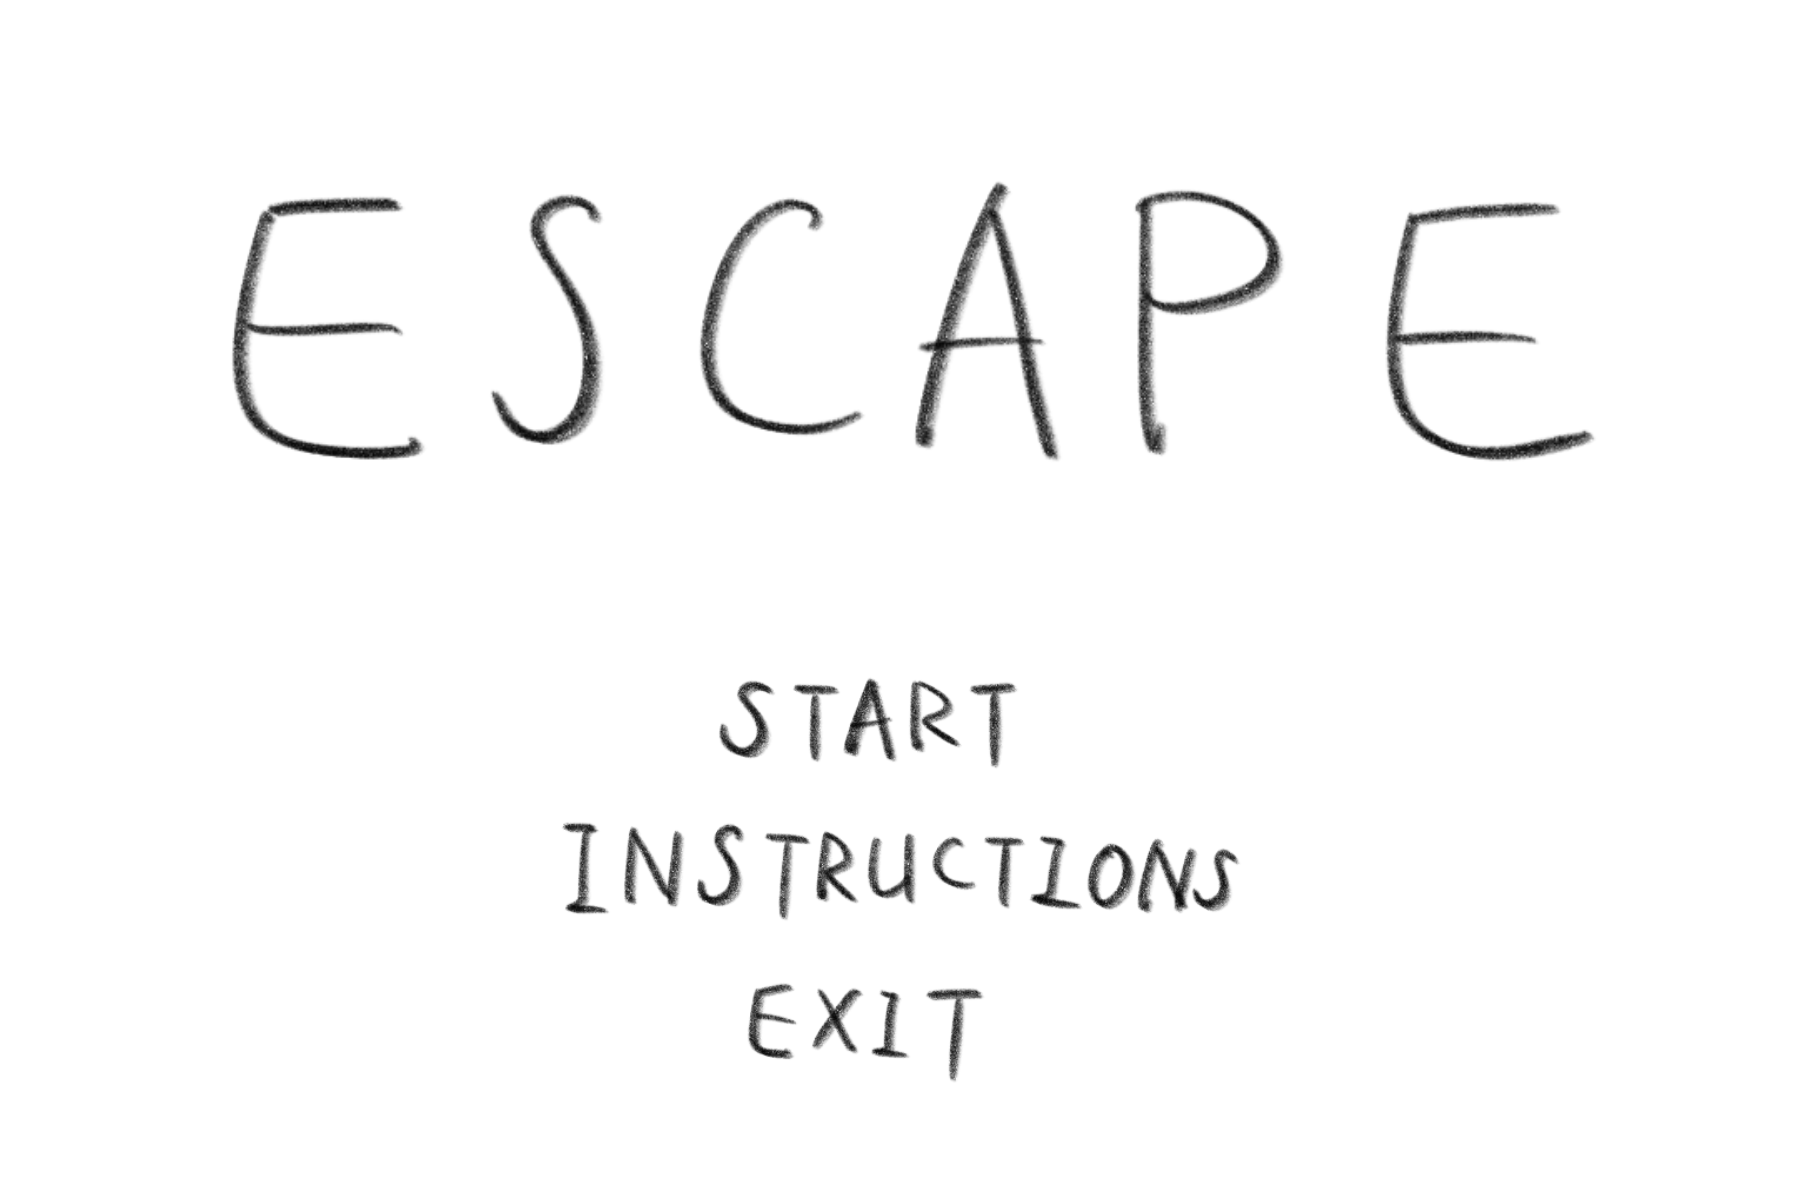
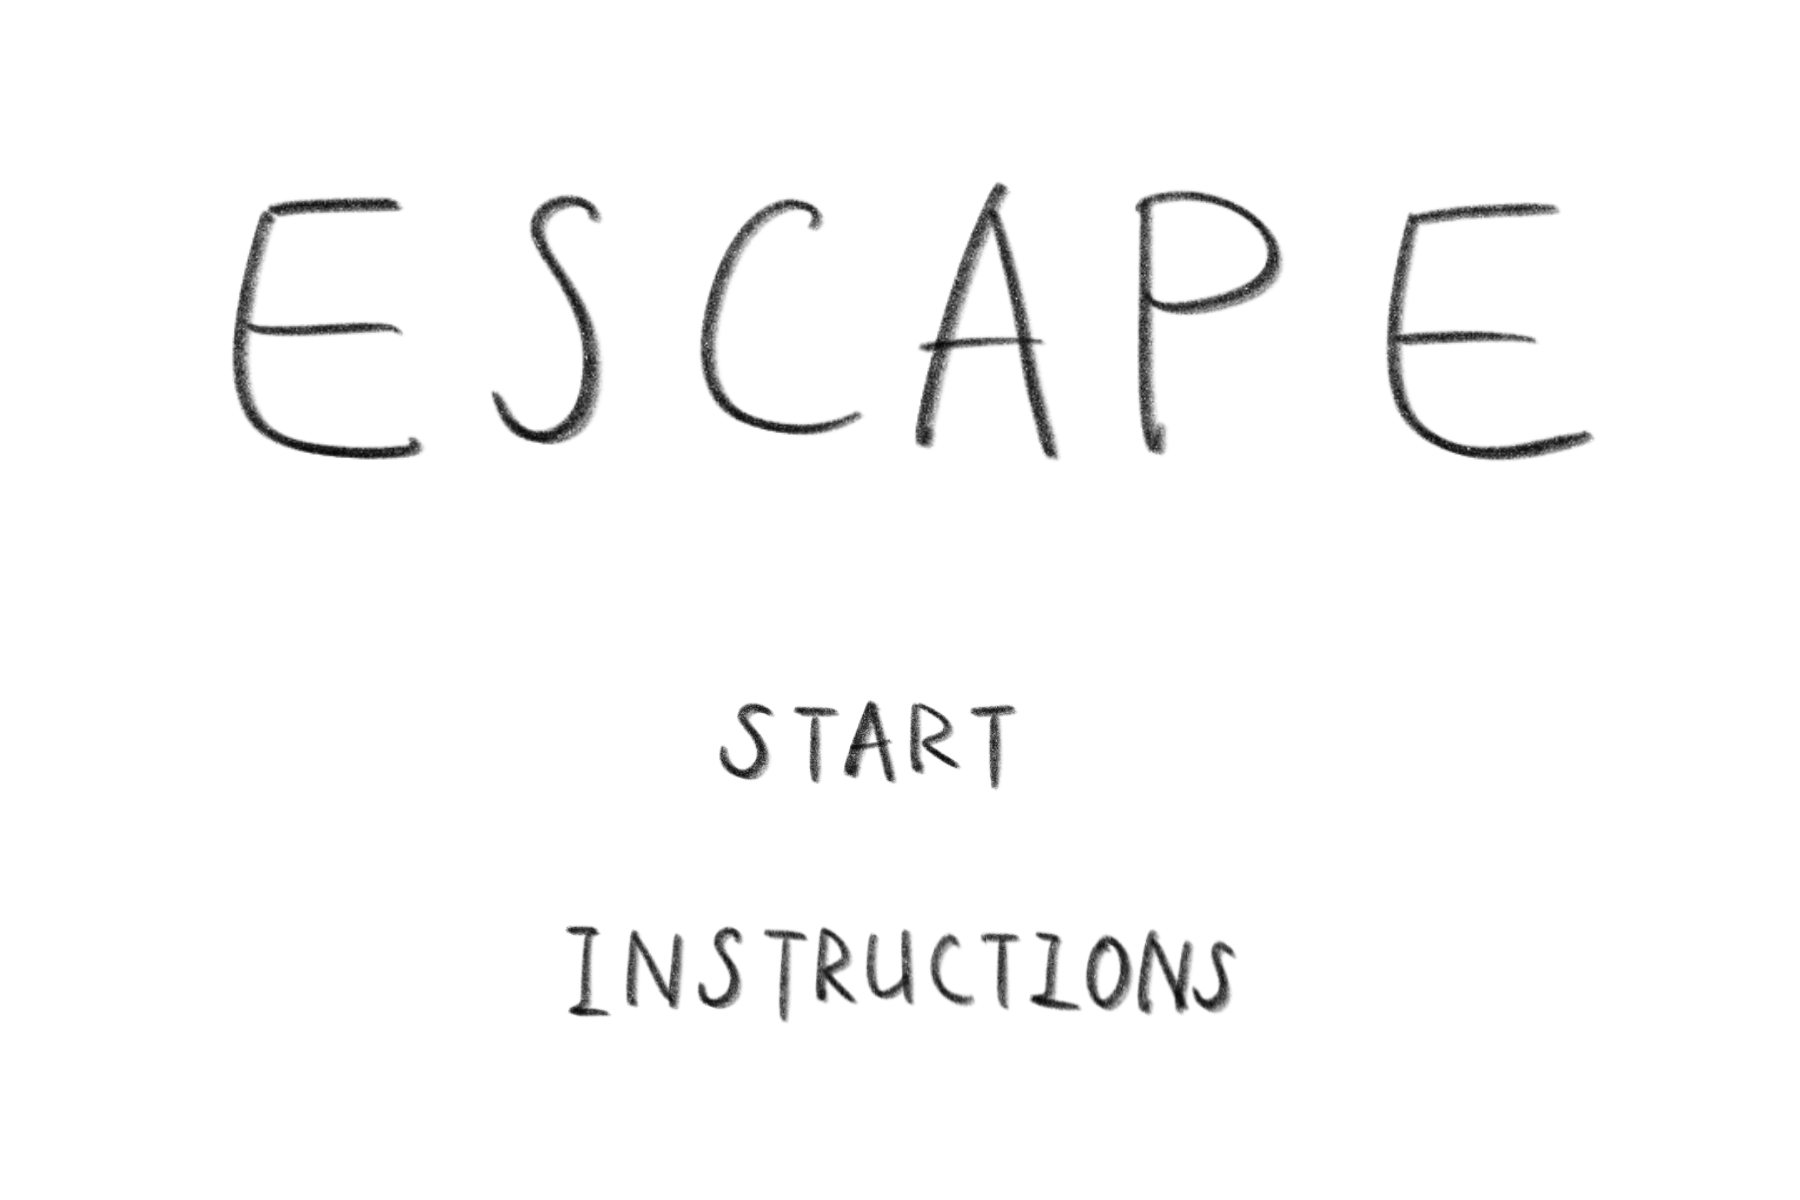
Modified title page

Changed region(s): [[0.3111, 0.6783, 0.6844, 0.8942], [0.3733, 0.555, 0.56, 0.6475]]

diff --git a/Game/menuScreen.cpp b/Game/menuScreen.cpp
@@ -12,8 +12,8 @@ void MenuScreen::init()
 	image->setSize(glm::vec3(Screen::application->getWidth(), Screen::application->getHeight(), 0));
 	image->setMaterial("title");
 	// Start button
-	std::shared_ptr<Button> startButton = std::make_shared<Button>(glm::vec3(210, 225, 0), glm::vec3(190, 60, 0), ButtonAction::loadGame);
-	std::shared_ptr<Button> instructionsButton = std::make_shared<Button>(glm::vec3(140, 165, 0), glm::vec3(360, 70, 0), ButtonAction::loadInstruction);
+	std::shared_ptr<Button> startButton = std::make_shared<Button>(glm::vec3(215, 210, 0), glm::vec3(190, 60, 0), ButtonAction::loadGame);
+	std::shared_ptr<Button> instructionsButton = std::make_shared<Button>(glm::vec3(140, 125, 0), glm::vec3(360, 70, 0), ButtonAction::loadInstruction);
 
 	ui->add(image);
 	ui->add(startButton);
